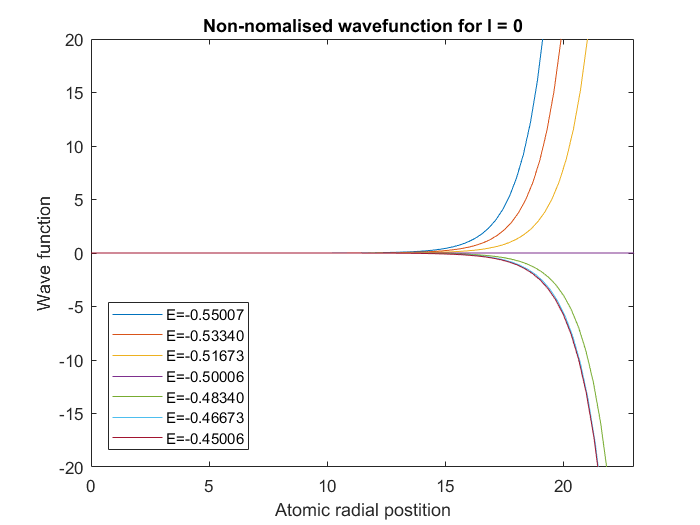
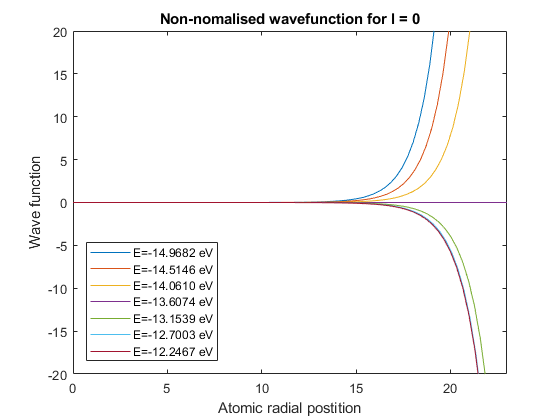
lax

diff --git a/hydrogen_shooting.m b/hydrogen_shooting.m
@@ -27,7 +27,7 @@ end
 xlabel('Atomic radial postition');
 ylabel('Wave function');
 title('Non-nomalised wavefunction for l = 0'); 
-legend(cellstr(num2str(energies_l0', 'E=%.5f')), 'location', 'southwest');
+legend(cellstr(num2str(energies_l0' * au_eV_conv, 'E=%.4f eV')), 'location', 'southwest');
 axis([0 23 -20 20]);
 
 energies_l1 = linspace(energy_l1-abs(energy_l1)/10, energy_l1+abs(energy_l1)/10, 7);
@@ -41,7 +41,7 @@ end
 xlabel('Atomic radial postition');
 ylabel('Wave function');
 title('Non-nomalised wavefunction for l = 1'); 
-legend(cellstr(num2str(energies_l1', 'E=%.5f')), 'location', 'southwest');
+legend(cellstr(num2str(energies_l1' * au_eV_conv, 'E=%.4f eV')), 'location', 'southwest');
 axis([0 23 -30000 30000]);
 
 energies_l2 = linspace(energy_l2-abs(energy_l2)/10, energy_l2+abs(energy_l2)/10, 7);
@@ -55,5 +55,5 @@ end
 xlabel('Atomic radial postition');
 ylabel('Wave function');
 title('Non-nomalised wavefunction for l = 2'); 
-legend(cellstr(num2str(energies_l2', 'E=%.5f')), 'location', 'southwest');
+legend(cellstr(num2str(energies_l2' * au_eV_conv, 'E=%.4f eV')), 'location', 'southwest');
 axis([0 30 -1.5*10^13 1.5*10^13]);
